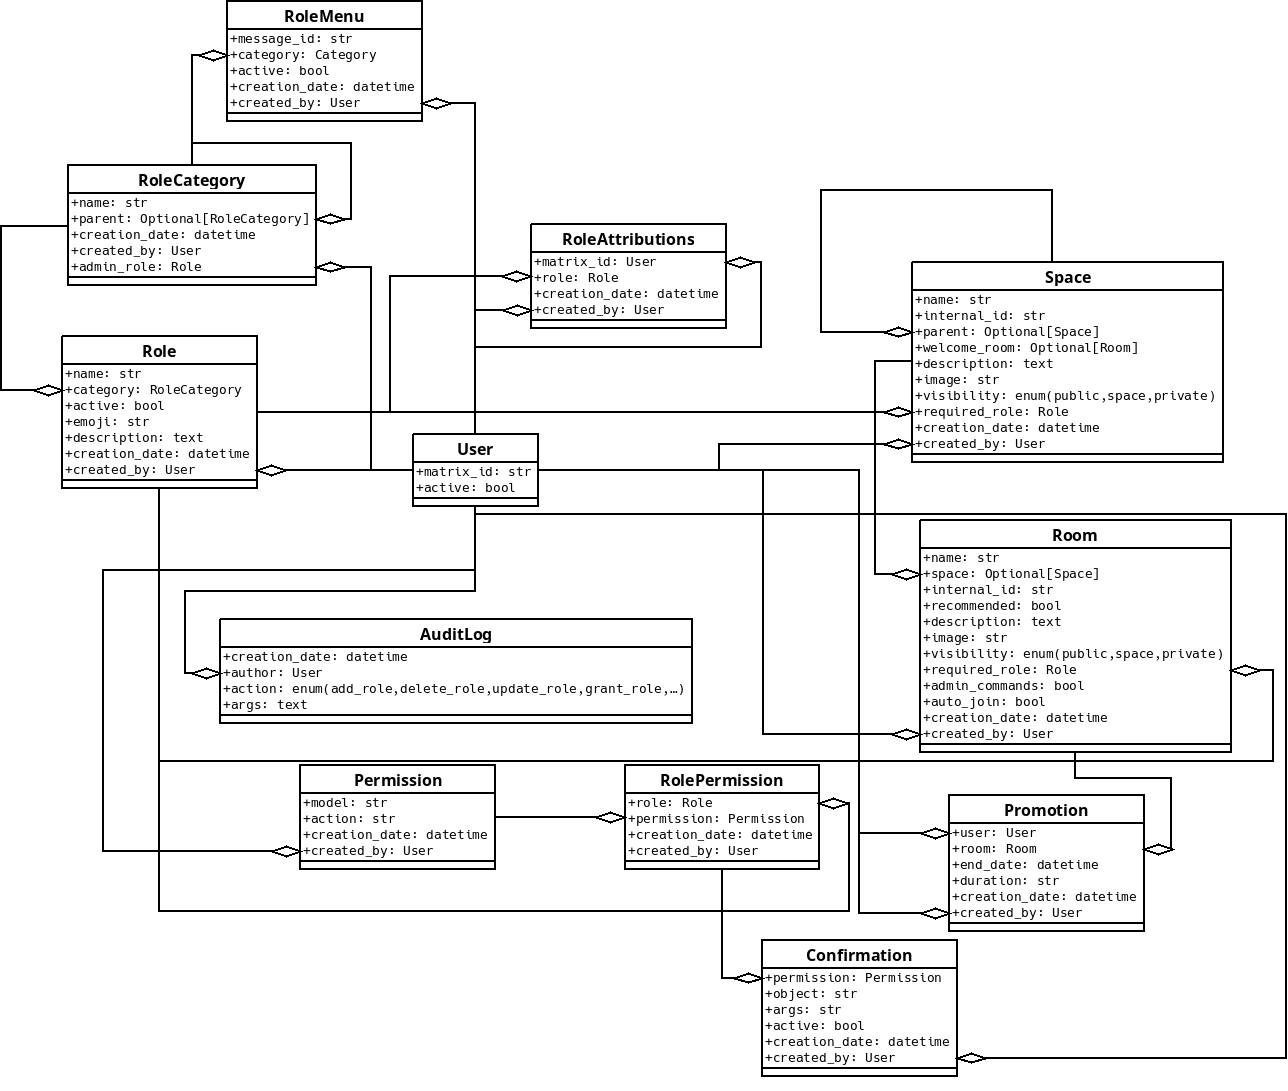
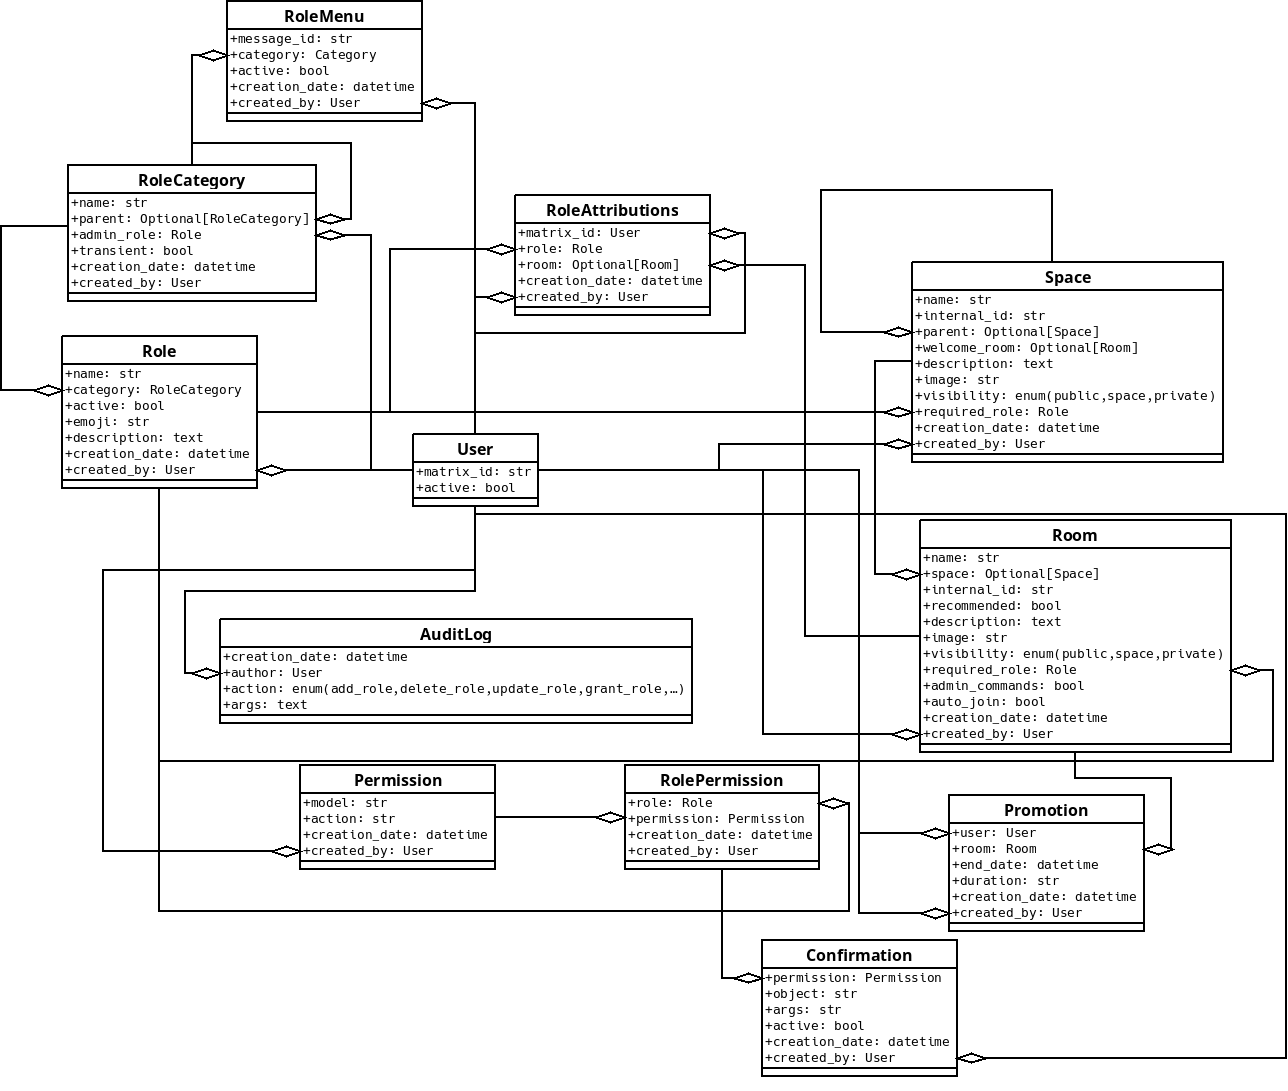
Add transient roles concept

Changed region(s): [[0.3727, 0.187, 0.5901, 0.3116], [0.0311, 0.187, 0.2484, 0.2805], [0.2484, 0.2181, 0.3106, 0.2493]]

diff --git a/brainstorm.md b/brainstorm.md
@@ -79,10 +79,14 @@
       this role, or it isn’t used as a required role or admin role anywhere. If
       there are role menus containing this role, they’re deactivated and the
       bots warns the user about them.
-    - assign <user> <role>: adds the requested role to the user. The issuer
-      must have the admin role of the category
-    - unassign <user> <role>: removes the requested role for the user. The
-      issuer must have the admin role of the category
+    - assign <user> <role> <space>: adds the requested role to the user, in the
+      given space if needed (aka if the role isn’t transient). The issuer
+      must have the admin role of the category, and have the space
+      required_role if needed
+    - unassign <user> <role> <space>: removes the requested role for the user,
+      in the given space if needed (aka if the role isn’t transient). The
+      issuer must have the admin role of the category, and have the space
+      required_role if needed
     - menu <role_category> <room> <prompt>: prints the role chooser menu in the
       chosen room, and listen to reacts to assign roles. If an existing menu
       for this category and this room exists, it’s deactivated
